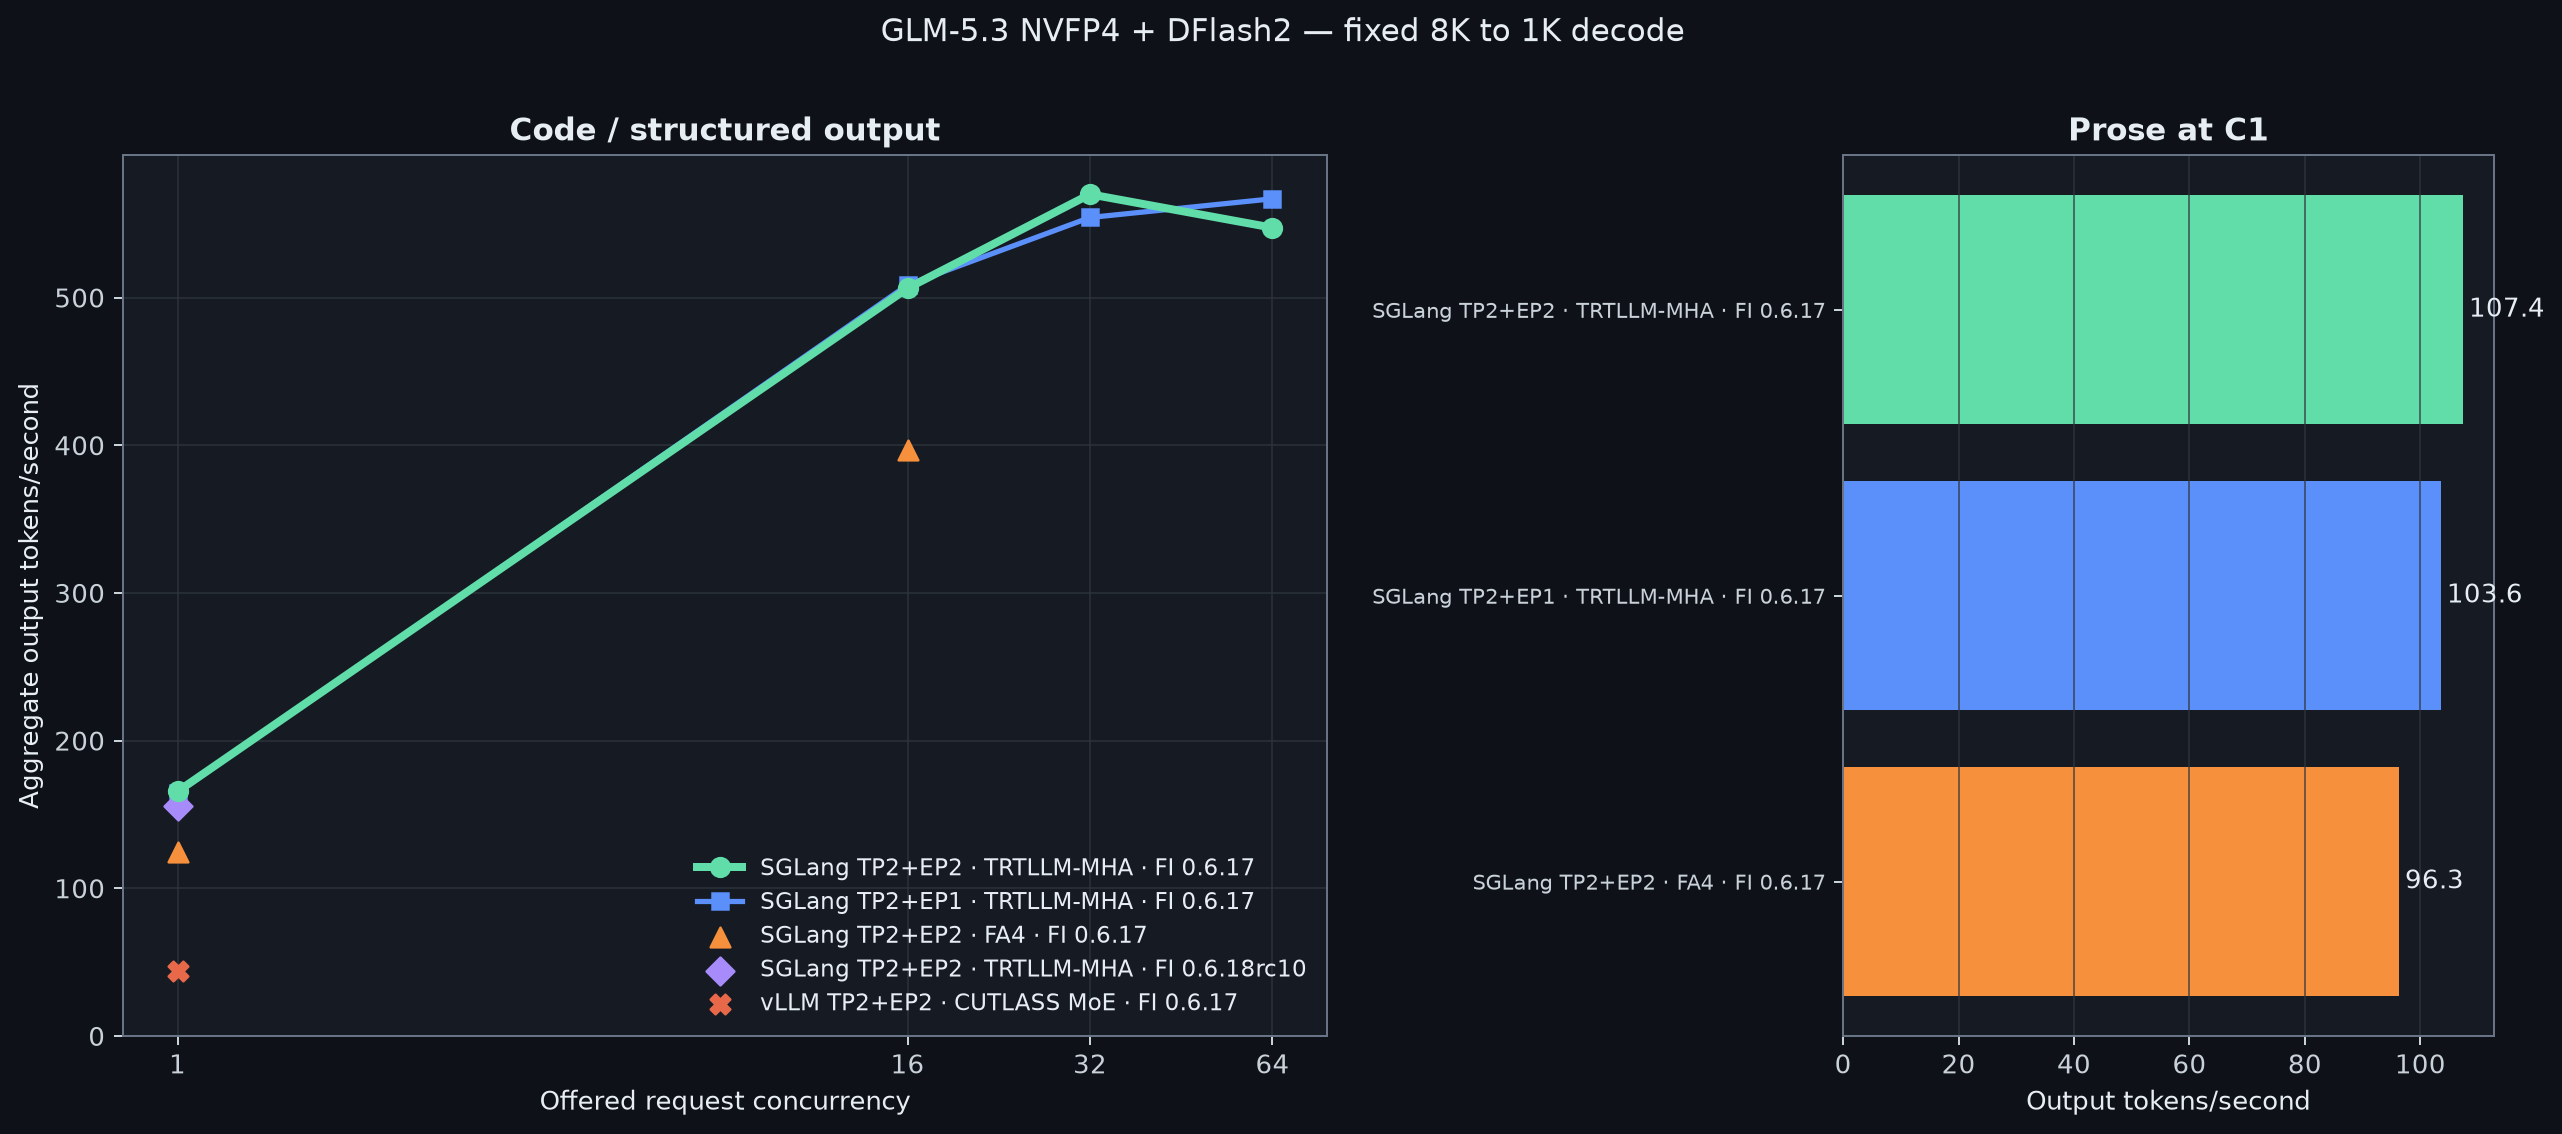
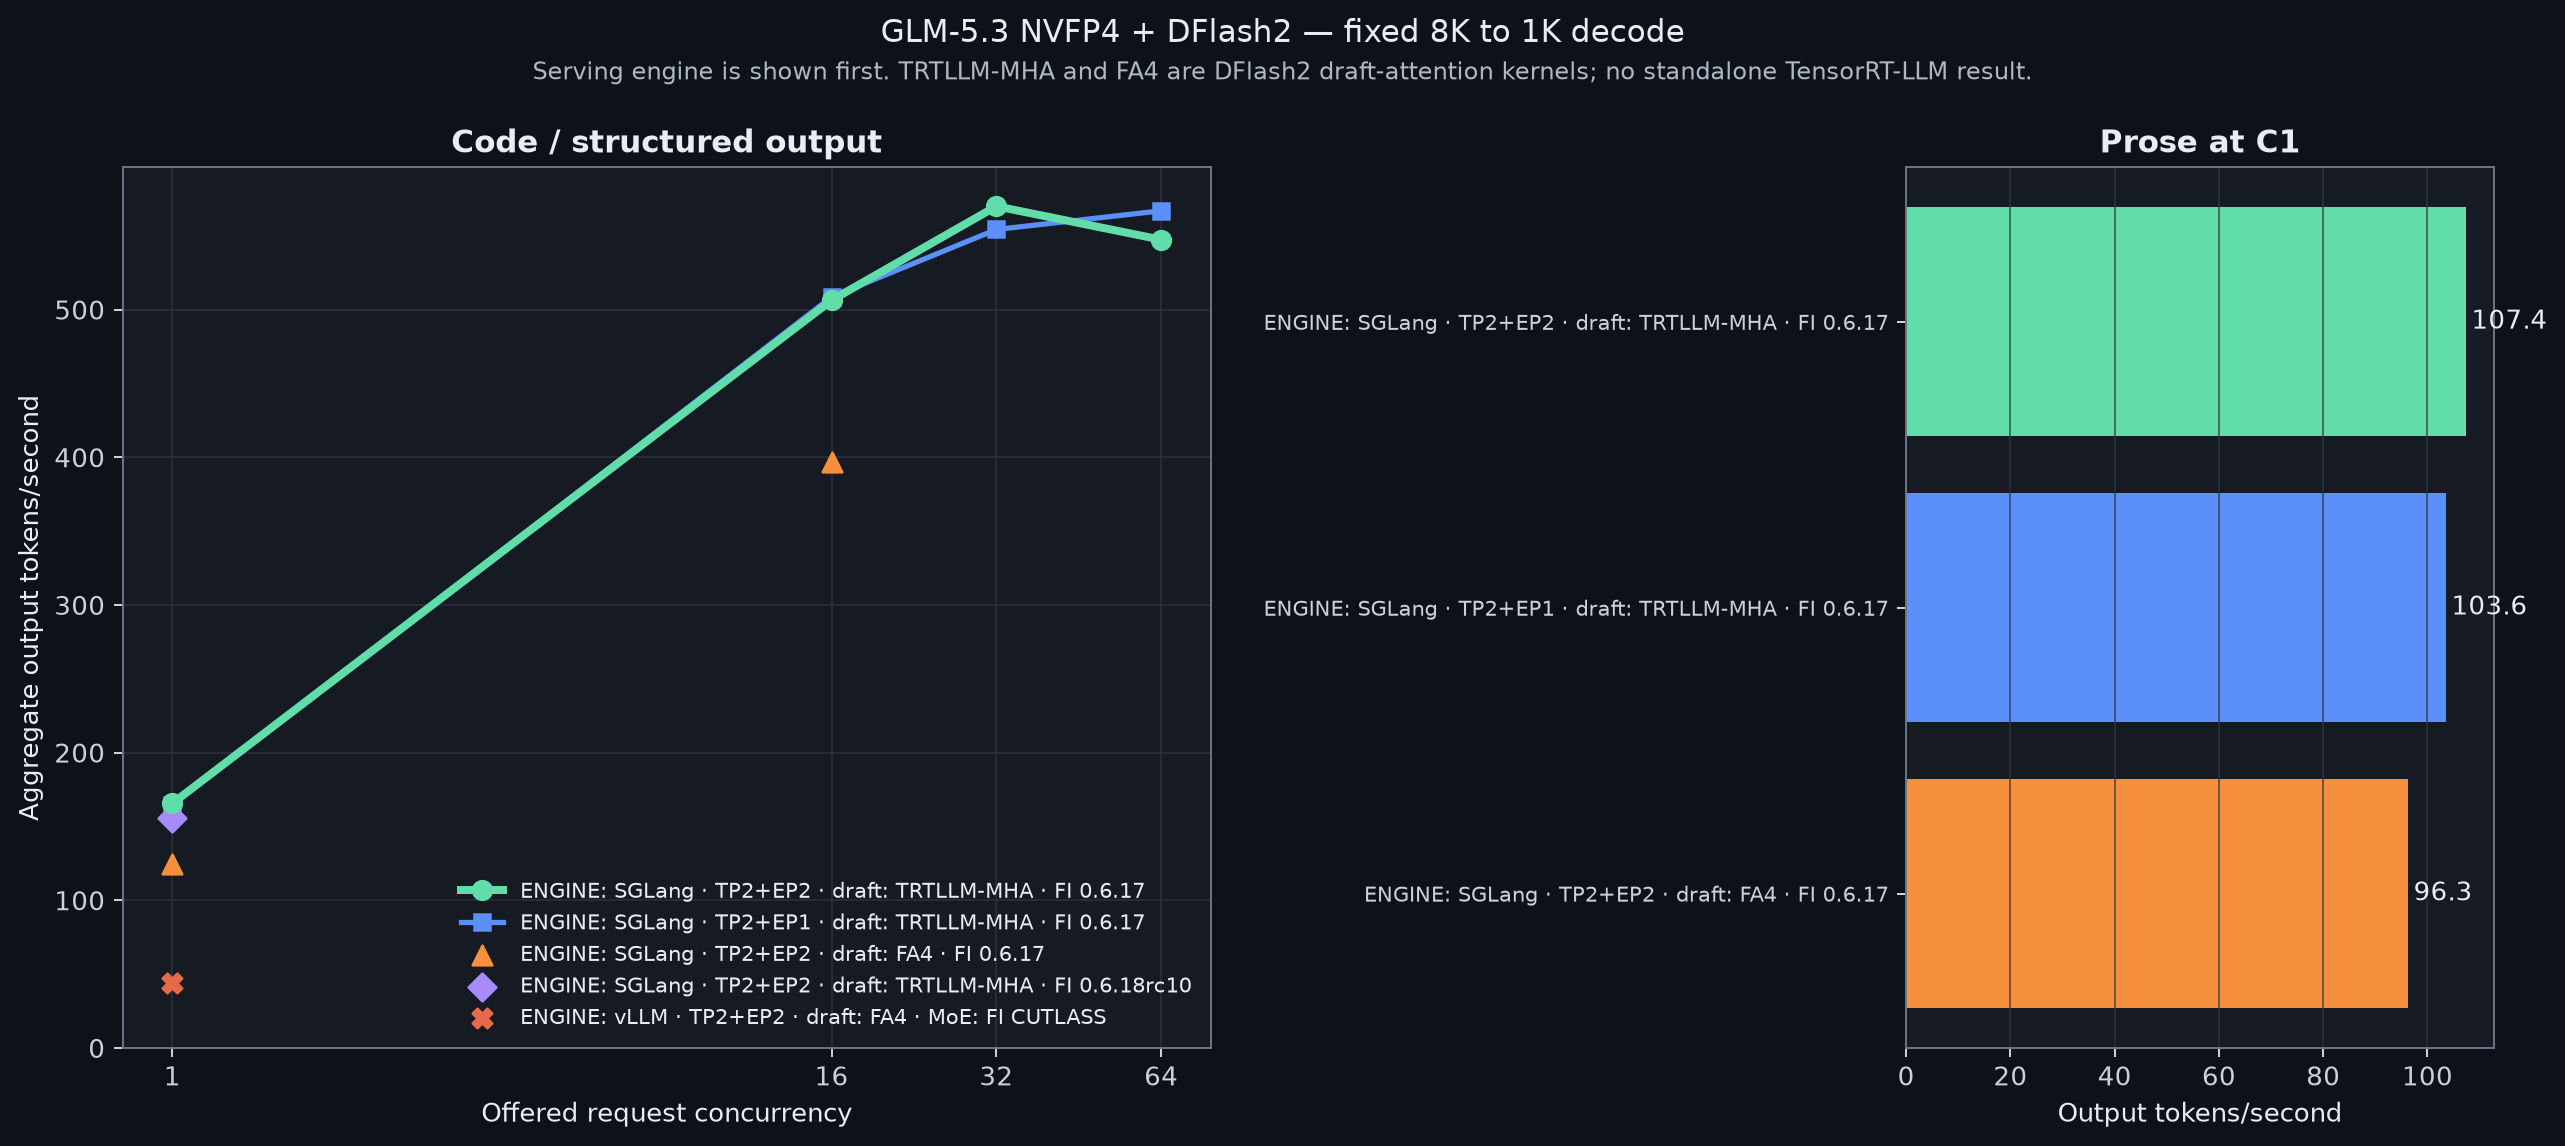
Clarify GLM-5.3 serving engines in charts

diff --git a/glm-5.3/charts/render-charts.py b/glm-5.3/charts/render-charts.py
@@ -37,6 +37,13 @@ PROFILE_STYLE = {
     PROFILE_ORDER[3]: ("#A78BFA", "D"),
     PROFILE_ORDER[4]: ("#E8684A", "X"),
 }
+PROFILE_DISPLAY = {
+    PROFILE_ORDER[0]: "ENGINE: SGLang · TP2+EP2 · draft: TRTLLM-MHA · FI 0.6.17",
+    PROFILE_ORDER[1]: "ENGINE: SGLang · TP2+EP1 · draft: TRTLLM-MHA · FI 0.6.17",
+    PROFILE_ORDER[2]: "ENGINE: SGLang · TP2+EP2 · draft: FA4 · FI 0.6.17",
+    PROFILE_ORDER[3]: "ENGINE: SGLang · TP2+EP2 · draft: TRTLLM-MHA · FI 0.6.18rc10",
+    PROFILE_ORDER[4]: "ENGINE: vLLM · TP2+EP2 · draft: FA4 · MoE: FI CUTLASS",
+}
 
 
 def style() -> None:
@@ -67,7 +74,7 @@ def rows(name: str) -> list[dict[str, str]]:
 
 
 def display_profile(profile: str) -> str:
-    return profile if profile == VLLM_PROFILE else f"SGLang {profile}"
+    return PROFILE_DISPLAY[profile]
 
 
 def render_decode() -> None:
@@ -142,7 +149,7 @@ def render_decode() -> None:
         FuncFormatter(lambda value, _: f"{value:,.0f}")
     )
     code_axis.grid(True, alpha=0.65)
-    code_axis.legend(loc="lower right", fontsize=9)
+    code_axis.legend(loc="lower right", fontsize=8.4)
 
     prose_profiles = [
         profile for profile in PROFILE_ORDER if profile in prose_by_profile
@@ -165,7 +172,15 @@ def render_decode() -> None:
     for index, value in enumerate(prose_values):
         prose_axis.text(value + 1.0, index, f"{value:.1f}", va="center")
 
-    figure.suptitle("GLM-5.3 NVFP4 + DFlash2 — fixed 8K to 1K decode", y=1.01)
+    figure.suptitle("GLM-5.3 NVFP4 + DFlash2 — fixed 8K to 1K decode", y=1.02)
+    figure.text(
+        0.5,
+        0.965,
+        "Serving engine is shown first. TRTLLM-MHA and FA4 are DFlash2 draft-attention kernels; no standalone TensorRT-LLM result.",
+        ha="center",
+        fontsize=9.5,
+        color="#AEB8C4",
+    )
     figure.tight_layout()
     figure.savefig(OUTPUT_DIR / "decode-throughput.png", dpi=180, bbox_inches="tight")
     plt.close(figure)

diff --git a/glm-5.3/tests/test_section_contract.py b/glm-5.3/tests/test_section_contract.py
@@ -147,6 +147,9 @@ class SectionContractTests(unittest.TestCase):
         self.assertIn("**165.5 output tok/s**", section)
         self.assertIn("**107.4 tok/s**", section)
         self.assertIn("**570.0 aggregate tok/s**", section)
+        self.assertIn("| **SGLang** | TP2+EP2 | TRTLLM-MHA |", section)
+        self.assertIn("no standalone TensorRT-LLM result", section)
+        self.assertIn("Serving engine is shown first", renderer)
         self.assertIn("[GLM-5.3](glm-5.3/)", repository)
         self.assertIn("unmeasured\n64-token compile warmup leaked", recipe)
         self.assertIn("implicit maximum reasoning setting", recipe)

diff --git a/glm-5.3/recipes/README.md b/glm-5.3/recipes/README.md
@@ -29,14 +29,14 @@ GPUDirect RDMA.
 
 ## Working paths
 
-| Run | Topology | Draft attention | FlashInfer | Measured cells |
-| --- | --- | --- | --- | --- |
-| `g53-b2-tep2-df2-low-bs32-r1` | TP2 / EP2 | TRTLLM-MHA | 0.6.17 | C1 code/prose and C16 headline cells |
-| `g53-b4-tep2-df2-low-bs32-schema5-r1` | TP2 / EP2 | TRTLLM-MHA | 0.6.17 | C32, offered C64, and 64K prefill headline cells |
-| `g53-b1-tp2-df2-low-bs32-r1` | TP2 / EP1 | TRTLLM-MHA | 0.6.17 | C1 code/prose, C16, C32, offered C64, 64K prefill diagnostic |
-| `g53-s1-tep2-df2-fa4-fi0617-r1` | TP2 / EP2 | FA4 | 0.6.17 | C1 code/prose and C16 diagnostic |
-| `g53-b3-tep2-df2-fi0618rc10-r1` | TP2 / EP2 | TRTLLM-MHA | 0.6.18rc10 | C1 code diagnostic |
-| `g53-v2-tep2-df2-cutlass-r1` | vLLM TP2 / EP2 | DFlash K7 | 0.6.17 | Valid C1 code challenger |
+| Run | Serving engine | Topology | Draft attention | Target MoE | FlashInfer | Measured cells |
+| --- | --- | --- | --- | --- | --- | --- |
+| `g53-b2-tep2-df2-low-bs32-r1` | SGLang | TP2 / EP2 | TRTLLM-MHA | FlashInfer TRTLLM | 0.6.17 | C1 code/prose and C16 headline cells |
+| `g53-b4-tep2-df2-low-bs32-schema5-r1` | SGLang | TP2 / EP2 | TRTLLM-MHA | FlashInfer TRTLLM | 0.6.17 | C32, offered C64, and 64K prefill headline cells |
+| `g53-b1-tp2-df2-low-bs32-r1` | SGLang | TP2 / EP1 | TRTLLM-MHA | FlashInfer TRTLLM | 0.6.17 | C1 code/prose, C16, C32, offered C64, 64K prefill diagnostic |
+| `g53-s1-tep2-df2-fa4-fi0617-r1` | SGLang | TP2 / EP2 | FA4 | FlashInfer TRTLLM | 0.6.17 | C1 code/prose and C16 diagnostic |
+| `g53-b3-tep2-df2-fi0618rc10-r1` | SGLang | TP2 / EP2 | TRTLLM-MHA | FlashInfer TRTLLM | 0.6.18rc10 | C1 code diagnostic |
+| `g53-v2-tep2-df2-cutlass-r1` | vLLM | TP2 / EP2 | FA4 | FlashInfer CUTLASS | 0.6.17 | Valid C1 code challenger |
 
 The charts plot only those cells. They do not fill in missing concurrencies.
 The TP2+EP1 run used the earlier schema-v3 framing check, which did not reject

diff --git a/glm-5.3/README.md b/glm-5.3/README.md
@@ -14,13 +14,16 @@ One SGLang server spans both Stations. The final TP2+EP2 profile reached
 **570.0 aggregate tok/s** at offered C32. Decode uses exact 8,192-token prompts
 and 1,024-token outputs.
 
-| DFlash2 path | C1 code | C1 prose | C16 code | C32 code | C64 code |
-| --- | ---: | ---: | ---: | ---: | ---: |
-| TP2+EP2 / TRTLLM-MHA / FI 0.6.17 | **165.5** | **107.4** | 506.3 | **570.0** | 547.3 |
-| TP2+EP1 / TRTLLM-MHA / FI 0.6.17 | 164.7 | 103.6 | **508.5** | 554.2 | **566.9** |
-| TP2+EP2 / FA4 / FI 0.6.17 | 124.4 | 96.3 | 396.5 | — | — |
-| TP2+EP2 / TRTLLM-MHA / FI 0.6.18rc10 | 155.6 | — | — | — | — |
-| vLLM TP2+EP2 / CUTLASS MoE / FI 0.6.17 | 43.8 | — | — | — | — |
+| Serving engine | Topology | DFlash2 draft attention | FlashInfer | C1 code | C1 prose | C16 code | C32 code | C64 code |
+| --- | --- | --- | --- | ---: | ---: | ---: | ---: | ---: |
+| **SGLang** | TP2+EP2 | TRTLLM-MHA | 0.6.17 | **165.5** | **107.4** | 506.3 | **570.0** | 547.3 |
+| **SGLang** | TP2+EP1 | TRTLLM-MHA | 0.6.17 | 164.7 | 103.6 | **508.5** | 554.2 | **566.9** |
+| **SGLang** | TP2+EP2 | FA4 | 0.6.17 | 124.4 | 96.3 | 396.5 | — | — |
+| **SGLang** | TP2+EP2 | TRTLLM-MHA | 0.6.18rc10 | 155.6 | — | — | — | — |
+| **vLLM** | TP2+EP2 | FA4 | 0.6.17 | 43.8 | — | — | — | — |
+
+`TRTLLM-MHA` and `FA4` name the DFlash2 draft-attention kernel. They are not
+serving engines, and this table contains no standalone TensorRT-LLM result.
 
 ![GLM-5.3 decode throughput](charts/decode-throughput.png)
 

diff --git a/glm-5.3/charts/README.md b/glm-5.3/charts/README.md
@@ -1,8 +1,9 @@
 # GLM-5.3 charts
 
 The renderer reads the section CSVs and produces the decode and cold-prefill
-headline figures. Curve labels contain only the hardware, topology, decode
-method, and workload.
+headline figures. Every curve label starts with the serving engine. TRTLLM-MHA
+and FA4 are explicitly labeled as DFlash2 draft-attention kernels, not serving
+engines; there is no standalone TensorRT-LLM result in these charts.
 
 Use CPython 3.12 and the pinned environment from the section root:
 
